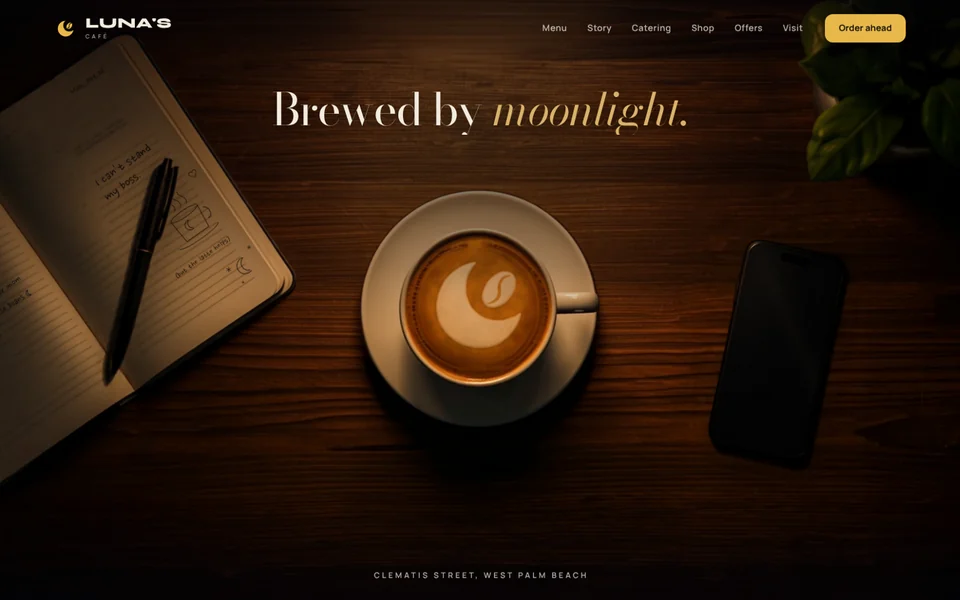
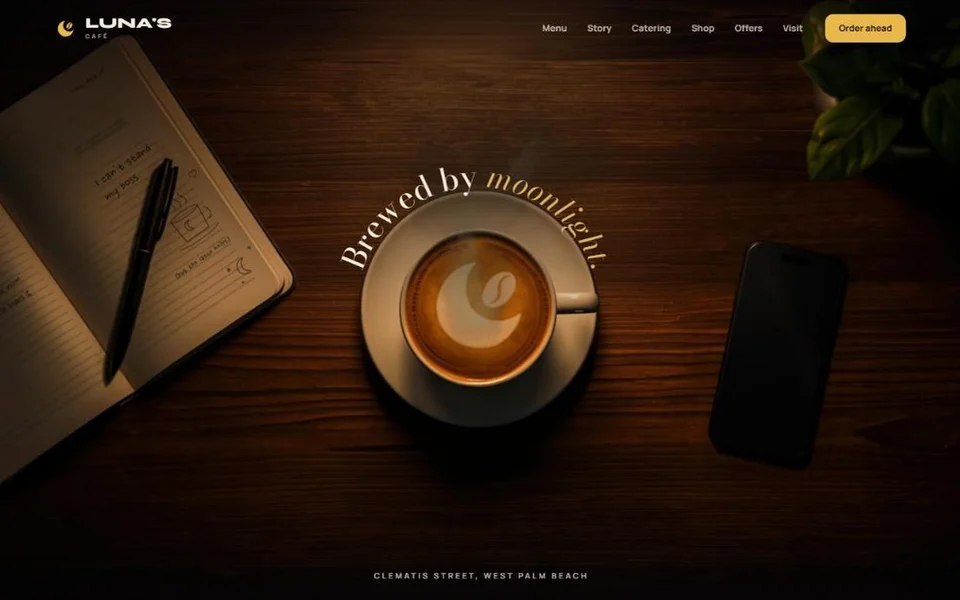
Batch 16: hook holds, Meridian before tile, Luna's site poster, softer Stadler tiles

diff --git a/index.html b/index.html
@@ -1673,10 +1673,10 @@ header .mark svg{height:19px;width:calc(19px*2.994);overflow:visible;stroke:curr
       <p class="hk-b b3"><span>You have <b class="hk-5">5 sec.</b> to grab attention.</span></p>
       <p class="hk-b b3b"><span>Don&rsquo;t waste it like this&hellip;</span></p>
       <p class="hk-b b4"><span>But with the right adjustments&hellip;</span></p>
-      <p class="hk-b b5"><span>Great branding&hellip;</span></p>
+      <p class="hk-b b5"><span>Great branding doesn&rsquo;t start over.</span></p>
       <p class="hk-b b6"><em>It brings out what&rsquo;s already there.</em></p>
     </div>
-    <p class="sr-only">Your business is a &rsquo;26 Ferrari Spider. But your marketing is an &rsquo;04 Ford Focus&hellip; You have 5 seconds to grab attention. Don&rsquo;t waste it like this&hellip; But with the right adjustments&hellip; Great branding&hellip; It brings out what&rsquo;s already there.</p>
+    <p class="sr-only">Your business is a &rsquo;26 Ferrari Spider. But your marketing is an &rsquo;04 Ford Focus&hellip; You have 5 seconds to grab attention. Don&rsquo;t waste it like this&hellip; But with the right adjustments&hellip; Great branding doesn&rsquo;t start over. It brings out what&rsquo;s already there.</p>
     <!-- the one example, Mountain & Valley: to swap it, change the two before pictures, the two stills and data-live -->
     <div class="hk-fs"><figure class="hk-f f1"><span class="hk-bar" aria-hidden="true"><i></i><i></i><i></i></span><span class="hk-v"><picture><source media="(max-width:760px)" srcset="img/w/hk-mv-b-p.webp"><img src="img/w/hk-mv-b-d.webp" alt="" decoding="async"></picture><span class="hk-a" data-live="play/mountain-valley/index.html"><picture><source media="(max-width:760px)" srcset="img/w/mv-poster-m.webp"><img src="img/w/mv-poster.webp" alt="" decoding="async"></picture></span></span><span class="hk-scr" aria-hidden="true"><svg viewBox="0 0 12 16" fill="none" stroke="currentColor" stroke-width="1.5" stroke-linecap="round" stroke-linejoin="round"><path d="M6 1.5v12M1.8 9.3 6 13.5l4.2-4.2"/></svg>Scroll <em>here</em> to explore</span></figure><div class="hk-ring" aria-hidden="true"><svg viewBox="0 0 200 200"><g class="tks"></g><circle class="bg" cx="100" cy="100" r="80"/><circle class="arc" cx="100" cy="100" r="80" pathLength="1000" stroke-dasharray="1000" stroke-dashoffset="0"/></svg><b class="hk-num">5.0<small>s</small></b></div></div>
     <span class="hk-cue-t" aria-hidden="true">Scroll</span>
@@ -2073,7 +2073,7 @@ document.getElementById('inqForm').addEventListener('submit',function(e){e.preve
     /* batch 16: Luna's opens on its website, the app sits in the middle, and the 3D café takes the third slot */
     (function(){var pr=document.querySelector('#live .lv-pair');if(!pr)return;var cafe=pr.querySelector('.live:not(.ph)');if(!cafe)return;pr.classList.add('tri');
       cafe.classList.add('own','lu','l3');pr.appendChild(cafe);
-      pr.insertAdjacentHTML('afterbegin','<button class="live lsite" type="button" data-site="play/lunas-signature/signature.html" data-direct data-name="Luna&rsquo;s Caf&eacute;" aria-label="Open the Luna&rsquo;s Caf&eacute; website"><img src="img/w/lunas-site-poster.webp" srcset="img/w/lunas-site-poster-s.webp 960w, img/w/lunas-site-poster.webp 1920w" sizes="(max-width:760px) 100vw, 700px" alt="" loading="lazy"><span class="live-go"><i aria-hidden="true"><svg viewBox="0 0 16 16"><path d="M3 1.8v12.4L13.6 8z" fill="currentColor"/></svg></i>Open the website</span></button>');
+      pr.insertAdjacentHTML('afterbegin','<button class="live lsite" type="button" data-site="play/lunas-signature/signature.html" data-direct data-name="Luna&rsquo;s Caf&eacute;" aria-label="Open the Luna&rsquo;s Caf&eacute; website"><img src="img/w/lunas-site-poster.webp" srcset="img/w/lunas-site-poster-s.webp 960w, img/w/lunas-site-poster.webp 1104w" sizes="(max-width:760px) 100vw, 700px" alt="" loading="lazy"><span class="live-go"><i aria-hidden="true"><svg viewBox="0 0 16 16"><path d="M3 1.8v12.4L13.6 8z" fill="currentColor"/></svg></i>Open the website</span></button>');
     })();
     [['riot','sr','play/soft-riot-app/index.html',' data-own="sr"','Soft Riot, Owner','softriot']].forEach(function(o){
       var pr=document.querySelector('#'+o[0]+' .lv-pair');if(!pr)return;pr.classList.add('tri');
@@ -2115,7 +2115,7 @@ document.getElementById('inqForm').addEventListener('submit',function(e){e.preve
     T.jay.setAttribute('data-site','b/jay/index.html');T.jay.setAttribute('data-name','jayabrams.com');T.jay.setAttribute('tabindex','0');T.jay.setAttribute('role','button');T.jay.setAttribute('aria-label','Open the jayabrams.com site');
     /* batch 16: Refresh shows the two refreshes, Unique Places and Meridian; Signature's fourth slot is Vela, the aircraft broker */
     T.up=el('<figure class="tile" data-site="https://uniqueplaces.vercel.app/" data-direct data-name="Unique Places" tabindex="0" role="button" aria-label="Open the Unique Places site"><div class="frame"><div class="page"><img src="img/w/up-1.webp" alt="Unique Places, homes by the water" loading="lazy"><img src="img/w/up-2.webp" alt="" loading="lazy"></div></div></figure>');
-    T.meridianr=el('<figure class="tile" data-site="b/meridian-refresh/index.html" data-name="Meridian" tabindex="0" role="button" aria-label="Open the Meridian site"><div class="frame"><div class="page"><img src="img/w/mr-1.webp" alt="Meridian, houses drawn for the sun" loading="lazy"><img src="img/w/mr-2.webp" alt="" loading="lazy"></div></div></figure>');
+    T.meridianr=el('<figure class="tile" data-site="b/meridian-refresh/index.html" data-name="Meridian" tabindex="0" role="button" aria-label="Open the Meridian site"><div class="frame"><div class="page"><img src="img/w/mr-0.webp" alt="Meridian&rsquo;s old site" loading="lazy"><img src="img/w/mr-1.webp" alt="Meridian, houses drawn for the sun, after its refresh" loading="lazy"></div></div></figure>');
     T.vela=el('<figure class="tile" data-site="b/vela/index.html" data-direct data-name="Vela" tabindex="0" role="button" aria-label="Open the Vela site"><div class="frame"><div class="page"><img src="img/w/vela-1.webp" alt="Vela, aircraft for sale laid out on a desk" loading="lazy"><img src="img/w/vela-2.webp" alt="" loading="lazy"></div></div></figure>');
     var ref=band('ow-refresh','Refresh','Your site, renewed.',2,[['up','half'],['meridianr','half']]);
     var sig=band('ow-signature','Signature','Your brand, elevated.',4,[['jay','half'],['stadler','half'],['vela','half'],['bascule2','half']]);
@@ -2577,11 +2577,12 @@ document.getElementById('inqForm').addEventListener('submit',function(e){e.preve
     var B=function(c){return hk.querySelector('.hk-b.'+c);},on=function(c){var e=B(c);if(e){e.classList.remove('off');e.classList.add('on');}},off=function(c){var e=B(c);if(e){e.classList.remove('on');e.classList.add('off');}};
     at(13300,function(){off('b3');on('b3b');});
     at(K5+350,function(){on('b4');});
-    at(K5+2900,function(){off('b4');});
-    at(K5+3200,function(){K(6);on('b5');});
-    at(K5+5600,function(){off('b5');});
-    at(K5+5900,function(){on('b6');});
-    at(K5+8000,function(){off('b6');});
+    /* batch 16b: "But with the right adjustments" holds a full 1.5s longer; the two lines after it move back with it */
+    at(K5+4400,function(){off('b4');});
+    at(K5+4700,function(){K(6);on('b5');});
+    at(K5+7100,function(){off('b5');});
+    at(K5+7400,function(){on('b6');});
+    at(K5+9500,function(){off('b6');});
     at(K5+LS*1000+DR*1000+250,function(){cl.add('hs-solo');});
     at(K5+LS*1000+DR*1000+5000,function(){cl.add('hs-pg');});
   }

diff --git a/play/lunas-signature/signature.html b/play/lunas-signature/signature.html
@@ -440,7 +440,7 @@ function arcFit(){
   /* laptops: the words ride a circle just outside the saucer. phones: the saucer fills the width, so the arch flattens, its centre dropped below the cup, and still clears the rim */
   var Rs=cr*1.66,R,k,fs,th;
   if(!mob){R=Rs;k=0;th=150*Math.PI/180;fs=Math.max(30,Math.min(84,100*R*th*.96/L));}
-  else{fs=Math.max(26,Math.min(48,100*(W-64)*1.05/L));R=Math.max(Rs,W*.82);k=R-Rs;th=(L*fs/100)/R/.96;}
+  else{fs=Math.max(26,Math.min(46,100*(W-84)*1.05/L));R=Math.max(Rs,W*.82);k=R-Rs;th=(L*fs/100)/R/.96;}
   var a=th/2,x=R*Math.sin(a),y=k-R*Math.cos(a),pad=Math.ceil(Math.max(R*1.05,R-k+fs*1.3)+fs);
   arc.setAttribute('width',pad*2);arc.setAttribute('height',pad*2);arc.setAttribute('viewBox',(-pad)+' '+(-pad)+' '+pad*2+' '+pad*2);
   arc.querySelector('path').setAttribute('d','M'+(-x).toFixed(1)+' '+y.toFixed(1)+'A'+R.toFixed(1)+' '+R.toFixed(1)+' 0 '+(th>Math.PI?1:0)+' 1 '+x.toFixed(1)+' '+y.toFixed(1));

diff --git a/b/stadler/index.html b/b/stadler/index.html
@@ -385,7 +385,7 @@ footer .wrap{display:flex;flex-wrap:wrap;gap:10px 28px;justify-content:space-bet
   (function(){try{var c=document.createElement('canvas'),n=16,t=64;c.width=c.height=n*t;var g=c.getContext('2d'),sd=19;
     function r(){sd=(sd*16807)%2147483647;return sd/2147483647}
     function j(){return (1+r()*2)*(r()<.5?-1:1)}
-    for(var y=0;y<n;y++)for(var x=0;x<n;x++){g.fillStyle='hsl('+(177+j()*3.6).toFixed(1)+',56%,'+(13+j()).toFixed(2)+'%)';g.fillRect(x*t,y*t,t,t)}
+    for(var y=0;y<n;y++)for(var x=0;x<n;x++){g.fillStyle='hsl('+(177+j()*1.2).toFixed(1)+',56%,'+(13+j()*.3).toFixed(2)+'%)';g.fillRect(x*t,y*t,t,t)}
     var b=document.body,cs=getComputedStyle(b);b.style.backgroundImage=cs.backgroundImage+',url('+c.toDataURL('image/png')+')';b.style.backgroundSize='64px 64px,64px 64px,64px 64px,64px 64px,1024px 1024px';
   }catch(e){}})();
 
